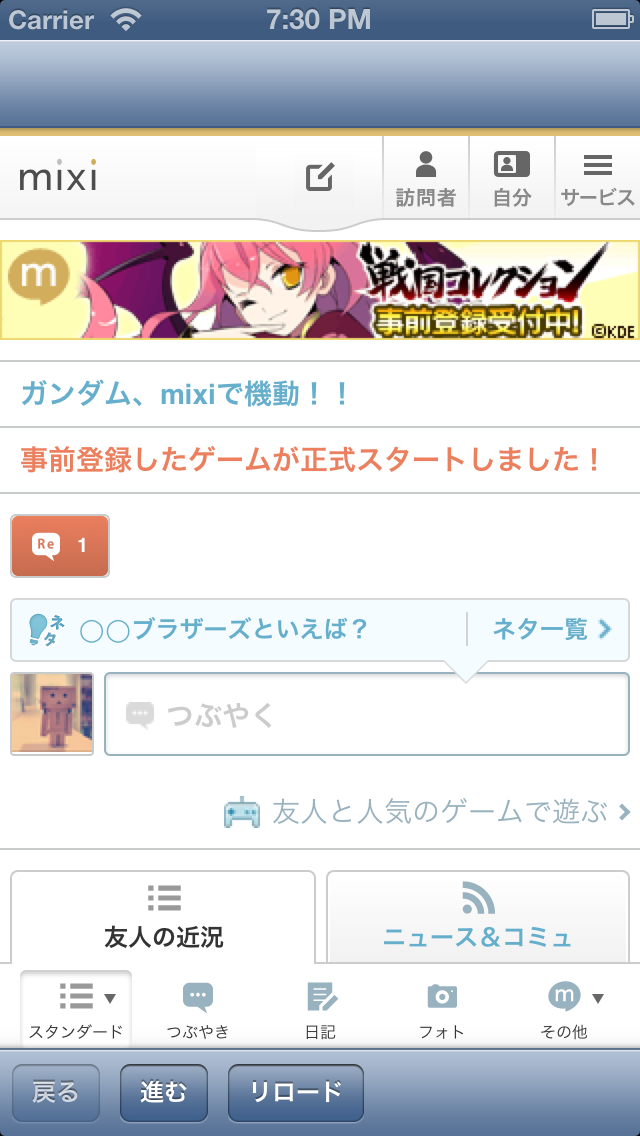
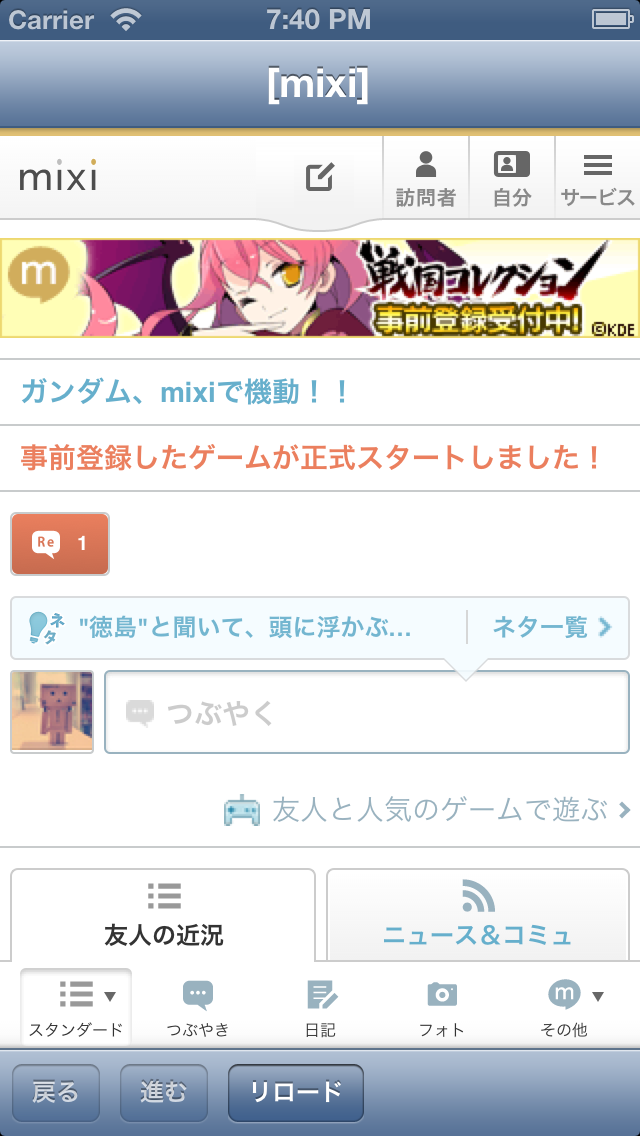
忘れてた物をいくつか修正

diff --git a/SampleProjects/6.3/WebViewSample/WebViewSample/WVSViewController.m b/SampleProjects/6.3/WebViewSample/WebViewSample/WVSViewController.m
@@ -66,6 +66,10 @@
 {
     _backButton.enabled = [webView canGoBack];
     _forwardButton.enabled = [webView canGoForward];
+
+    NSString *title = [webView stringByEvaluatingJavaScriptFromString:@"document.title"];
+    self.title = title;
+
 }
 
 @end
